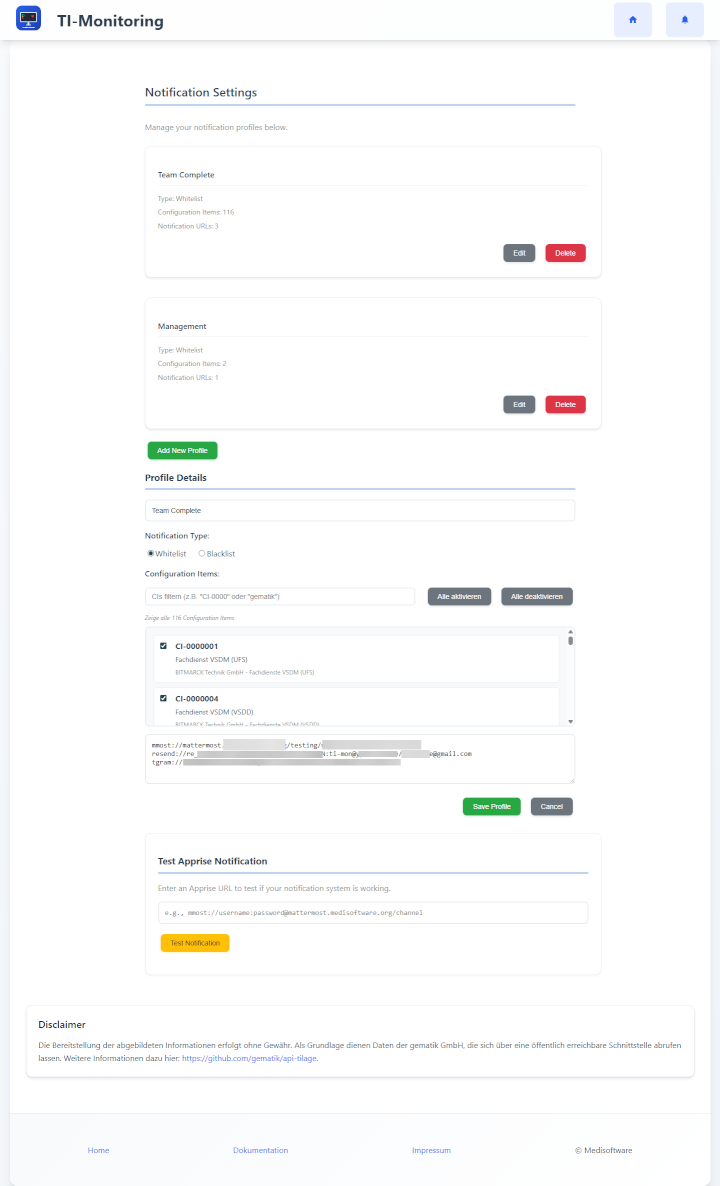
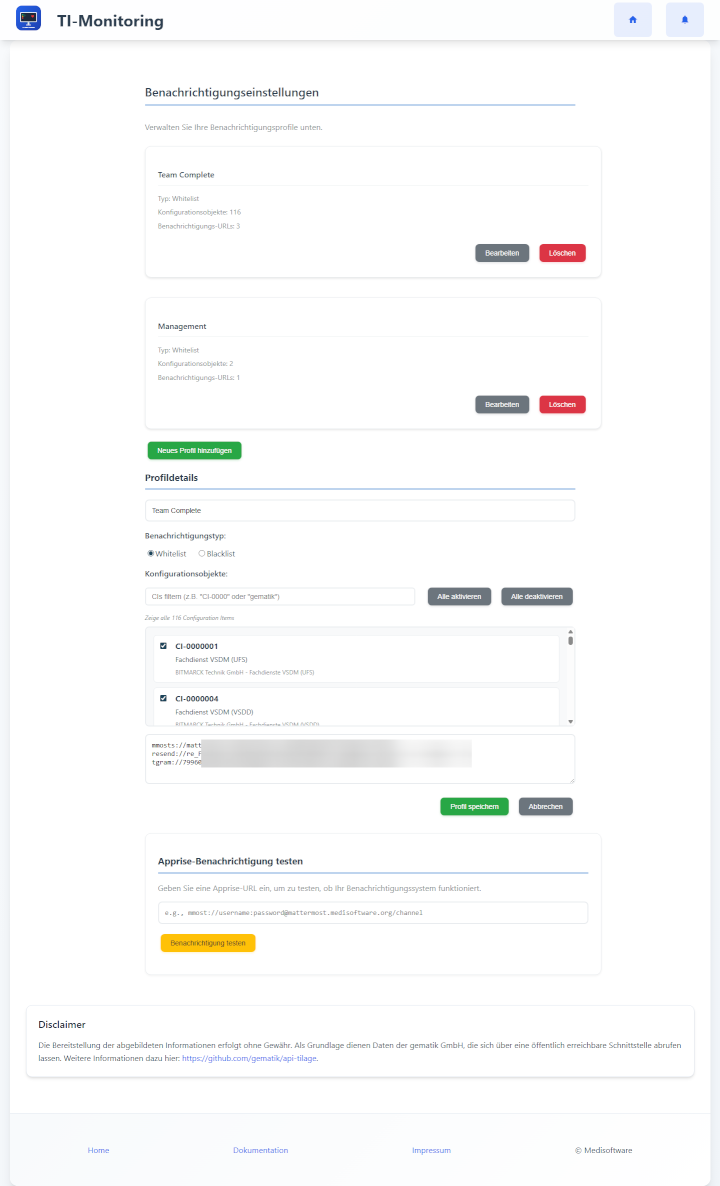
feat: Notifications-Seite vollständig auf Deutsch übersetzt
- Haupttitel: 'Notification Settings' → 'Benachrichtigungseinstellungen'
- Login-Bereich: Alle Texte auf Deutsch übersetzt
- Profil-Formular: Labels, Buttons und Platzhalter auf Deutsch
- Profile-Cards: Anzeigetexte und Button-Labels auf Deutsch
- Test-Bereich: Alle Meldungen und Hilfetexte auf Deutsch
- Fehlermeldungen: Alle Benutzerbenachrichtigungen auf Deutsch
- Technische Begriffe (Whitelist/Blacklist) beibehalten
- Verbesserte Benutzerfreundlichkeit für deutschsprachige Benutzer

diff --git a/pages/notification_settings.py b/pages/notification_settings.py
@@ -122,7 +122,7 @@ auth_status = {'authenticated': False}
 
 def serve_layout():
     layout = html.Div([
-        html.H2('Notification Settings', style={
+        html.H2('Benachrichtigungseinstellungen', style={
             'color': '#2c3e50',
             'fontWeight': '600',
             'marginBottom': '30px',
@@ -134,12 +134,12 @@ def serve_layout():
         
         # Login form (shown when not authenticated)
         html.Div(id='login-container', children=[
-            html.H3('Login Required', style={'color': '#2c3e50', 'marginBottom': '20px'}),
-            html.P('Please enter the password to access notification settings.', style={'color': '#7f8c8d', 'marginBottom': '20px'}),
+            html.H3('Anmeldung erforderlich', style={'color': '#2c3e50', 'marginBottom': '20px'}),
+            html.P('Bitte geben Sie das Passwort ein, um auf die Benachrichtigungseinstellungen zuzugreifen.', style={'color': '#7f8c8d', 'marginBottom': '20px'}),
             dcc.Input(
                 id='password-input',
                 type='password',
-                placeholder='Enter password',
+                placeholder='Passwort eingeben',
                 style={
                     'width': '100%', 
                     'marginBottom': '15px',
@@ -151,7 +151,7 @@ def serve_layout():
                     'boxSizing': 'border-box'
                 }
             ),
-            html.Button('Login', id='login-button', n_clicks=0, style=get_button_style('primary')),
+            html.Button('Anmelden', id='login-button', n_clicks=0, style=get_button_style('primary')),
             html.Div(id='login-error', style={'color': '#e74c3c', 'marginTop': '15px', 'fontWeight': '500'})
         ], style={
             'width': '100%',
@@ -166,7 +166,7 @@ def serve_layout():
         
         # Settings interface (hidden when not authenticated)
         html.Div(id='settings-container', children=[
-            html.P('Manage your notification profiles below.', style={
+            html.P('Verwalten Sie Ihre Benachrichtigungsprofile unten.', style={
                 'color': '#7f8c8d',
                 'fontSize': '16px',
                 'marginBottom': '25px'
@@ -176,11 +176,11 @@ def serve_layout():
             html.Div(id='profiles-container'),
             
             # Add new profile button
-            html.Button('Add New Profile', id='add-profile-button', n_clicks=0, style=get_button_style('success')),
+            html.Button('Neues Profil hinzufügen', id='add-profile-button', n_clicks=0, style=get_button_style('success')),
             
             # Profile form (hidden by default)
             html.Div(id='profile-form-container', children=[
-                html.H3('Profile Details', style={
+                html.H3('Profildetails', style={
                     'color': '#2c3e50',
                     'marginBottom': '20px',
                     'borderBottom': '2px solid #3498db',
@@ -192,7 +192,7 @@ def serve_layout():
                 dcc.Store(id='ci-filter-text', data=''),
                 dcc.Input(
                     id='profile-name-input',
-                    placeholder='Profile Name',
+                    placeholder='Profilname',
                     style={
                         'width': '100%', 
                         'marginBottom': '15px',
@@ -205,7 +205,7 @@ def serve_layout():
                     }
                 ),
                 html.Div([
-                    html.Label('Notification Type:', style={
+                    html.Label('Benachrichtigungstyp:', style={
                         'display': 'block',
                         'marginBottom': '10px',
                         'fontWeight': '500',
@@ -231,7 +231,7 @@ def serve_layout():
                     'width': '100%'
                 }),
                 html.Div([
-                    html.Label('Configuration Items:', style={
+                    html.Label('Konfigurationsobjekte:', style={
                         'display': 'block',
                         'marginBottom': '10px',
                         'fontWeight': '500',
@@ -287,7 +287,7 @@ def serve_layout():
                 }),
                 dcc.Textarea(
                     id='apprise-urls-textarea',
-                    placeholder='Apprise URLs (one per line)',
+                    placeholder='Apprise URLs (eine pro Zeile)',
                     style={
                         'width': '100%', 
                         'height': '100px', 
@@ -307,8 +307,8 @@ def serve_layout():
                     'width': '100%'
                 }),
                 html.Div([
-                    html.Button('Save Profile', id='save-profile-button', n_clicks=0, style=get_button_style('success')),
-                    html.Button('Cancel', id='cancel-profile-button', n_clicks=0, style=get_button_style('secondary'))
+                    html.Button('Profil speichern', id='save-profile-button', n_clicks=0, style=get_button_style('success')),
+                    html.Button('Abbrechen', id='cancel-profile-button', n_clicks=0, style=get_button_style('secondary'))
                 ], style={
                     'display': 'flex', 
                     'gap': '10px',
@@ -329,17 +329,17 @@ def serve_layout():
             # Delete confirmation modal
             dcc.ConfirmDialog(
                 id='delete-confirm',
-                message='Are you sure you want to delete this profile?'
+                message='Sind Sie sicher, dass Sie dieses Profil löschen möchten?'
             ),
             # Test Apprise notification button
             html.Div([
-                html.H3('Test Apprise Notification', style={
+                html.H3('Apprise-Benachrichtigung testen', style={
                     'color': '#2c3e50',
                     'marginBottom': '15px',
                     'borderBottom': '2px solid #3498db',
                     'paddingBottom': '10px'
                 }),
-                html.P('Enter an Apprise URL to test if your notification system is working.', style={
+                html.P('Geben Sie eine Apprise-URL ein, um zu testen, ob Ihr Benachrichtigungssystem funktioniert.', style={
                     'color': '#7f8c8d',
                     'marginBottom': '15px'
                 }),
@@ -359,7 +359,7 @@ def serve_layout():
                         'boxSizing': 'border-box'
                     }
                 ),
-                html.Button('Test Notification', id='test-notification-button', n_clicks=0, style=get_button_style('warning')),
+                html.Button('Benachrichtigung testen', id='test-notification-button', n_clicks=0, style=get_button_style('warning')),
                 html.Div(id='test-result', style={
                     'width': '100%',
                     'marginTop': '15px'
@@ -405,9 +405,9 @@ def handle_login(n_clicks, password, auth_data):
                 auth_data['authenticated'] = True
                 return [{'display': 'none'}, {'display': 'block'}, '', auth_data]
             else:
-                return [no_update, no_update, 'Invalid password. Please try again.', auth_data]
+                return [no_update, no_update, 'Ungültiges Passwort. Bitte versuchen Sie es erneut.', auth_data]
         else:
-            return [no_update, no_update, 'Please enter a password.', auth_data]
+            return [no_update, no_update, 'Bitte geben Sie ein Passwort ein.', auth_data]
     return [no_update, no_update, '', auth_data]
 
 
@@ -790,7 +790,7 @@ def display_profiles(auth_data, save_clicks, delete_clicks):
     try:
         config = get_notification_config(config_notifications_config_file)
         if not config:
-            return html.P('No notification profiles found. Add a new profile to get started.')
+            return html.P('Keine Benachrichtigungsprofile gefunden. Fügen Sie ein neues Profil hinzu, um zu beginnen.')
         
         profile_cards = []
         for i, profile in enumerate(config):
@@ -799,7 +799,7 @@ def display_profiles(auth_data, save_clicks, delete_clicks):
             url_count = len(profile.get('apprise_urls', []))
             
             card = html.Div([
-                html.H4(profile.get('name', 'Unnamed Profile'), style={
+                html.H4(profile.get('name', 'Unbenanntes Profil'), style={
                     'color': '#2c3e50',
                     'marginBottom': '15px',
                     'fontWeight': '600',
@@ -807,25 +807,25 @@ def display_profiles(auth_data, save_clicks, delete_clicks):
                     'paddingBottom': '10px'
                 }),
                 html.Div([
-                    html.P(f"Type: {profile.get('type', 'whitelist').title()}", style={
+                    html.P(f"Typ: {profile.get('type', 'whitelist').title()}", style={
                         'color': '#7f8c8d',
                         'margin': '5px 0',
                         'fontSize': '14px'
                     }),
-                    html.P(f"Configuration Items: {ci_count}", style={
+                    html.P(f"Konfigurationsobjekte: {ci_count}", style={
                         'color': '#7f8c8d',
                         'margin': '5px 0',
                         'fontSize': '14px'
                     }),
-                    html.P(f"Notification URLs: {url_count}", style={
+                    html.P(f"Benachrichtigungs-URLs: {url_count}", style={
                         'color': '#7f8c8d',
                         'margin': '5px 0',
                         'fontSize': '14px'
                     })
                 ], style={'marginBottom': '20px'}),
                 html.Div([
-                    html.Button('Edit', id={'type': 'edit-profile', 'index': i}, n_clicks=0, style=get_button_style('secondary')),
-                    html.Button('Delete', id={'type': 'delete-profile', 'index': i}, n_clicks=0, 
+                    html.Button('Bearbeiten', id={'type': 'edit-profile', 'index': i}, n_clicks=0, style=get_button_style('secondary')),
+                    html.Button('Löschen', id={'type': 'delete-profile', 'index': i}, n_clicks=0, 
                                style=get_button_style('danger'))
                 ], style={
                     'display': 'flex', 
@@ -854,7 +854,7 @@ def display_profiles(auth_data, save_clicks, delete_clicks):
             'gap': '20px'
         })
     except Exception as e:
-        return html.P(f'Error loading profiles: {str(e)}')
+        return html.P(f'Fehler beim Laden der Profile: {str(e)}')
 
 # Callback to show profile form
 @callback(
@@ -1012,7 +1012,7 @@ def show_delete_confirm(delete_clicks):
         config = get_notification_config(config_notifications_config_file)
         if 0 <= index < len(config):
             profile_name = config[index].get('name', 'Unnamed Profile')
-            message = f'Are you sure you want to delete the profile "{profile_name}"?'
+            message = f'Sind Sie sicher, dass Sie das Profil "{profile_name}" löschen möchten?'
             return [True, message]
     except Exception:
         pass
@@ -1071,10 +1071,10 @@ def delete_profile(submit_n_clicks, triggered):
 )
 def test_apprise_notification(n_clicks, apprise_url, auth_data):
     if not auth_data.get('authenticated', False):
-        return html.Div('Authentication required.', style={'color': 'red'})
+        return html.Div('Authentifizierung erforderlich.', style={'color': 'red'})
     
     if not apprise_url or not apprise_url.strip():
-        return html.Div('Please enter an Apprise URL to test.', style={'color': 'orange'})
+        return html.Div('Bitte geben Sie eine Apprise-URL zum Testen ein.', style={'color': 'orange'})
     
     try:
         # Create Apprise object and add the URL
@@ -1084,60 +1084,60 @@ def test_apprise_notification(n_clicks, apprise_url, auth_data):
         if not apobj.add(apprise_url.strip()):
             return html.Div([
                 html.I(className='material-icons', children='error', style={'color': 'red', 'margin-right': '8px'}),
-                html.Span('Invalid Apprise URL format. Please check the URL syntax.', style={'color': 'red'}),
+                html.Span('Ungültiges Apprise-URL-Format. Bitte überprüfen Sie die URL-Syntax.', style={'color': 'red'}),
                 html.Br(),
                 html.Span(f'URL: {apprise_url.strip()}', style={'color': 'gray', 'font-size': '0.9em'}),
                 html.Br(),
                 html.Br(),
-                html.Span('Common Mattermost format: mmost://username:password@hostname/channel', style={'color': 'blue', 'font-size': '0.9em'}),
+                html.Span('Häufiges Mattermost-Format: mmost://username:password@hostname/channel', style={'color': 'blue', 'font-size': '0.9em'}),
                 html.Br(),
-                html.Span('Example: mmost://user:pass@mattermost.medisoftware.org/channel', style={'color': 'blue', 'font-size': '0.9em'})
+                html.Span('Beispiel: mmost://user:pass@mattermost.medisoftware.org/channel', style={'color': 'blue', 'font-size': '0.9em'})
             ])
         
         # Send test notification
         result = apobj.notify(
-            title='TI-Monitoring Test Notification',
-            body='This is a test notification from TI-Monitoring. If you receive this, your Apprise configuration is working correctly!',
+            title='TI-Monitoring Test-Benachrichtigung',
+            body='Dies ist eine Test-Benachrichtigung von TI-Monitoring. Wenn Sie diese erhalten, funktioniert Ihre Apprise-Konfiguration korrekt!',
             body_format=apprise.NotifyFormat.TEXT
         )
         
         if result:
             return html.Div([
                 html.I(className='material-icons', children='check_circle', style={'color': 'green', 'margin-right': '8px'}),
-                html.Span('Test notification sent successfully! Check your notification destination.', style={'color': 'green'}),
+                html.Span('Test-Benachrichtigung erfolgreich gesendet! Überprüfen Sie Ihr Benachrichtigungsziel.', style={'color': 'green'}),
                 html.Br(),
                 html.Span(f'URL: {apprise_url.strip()}', style={'color': 'gray', 'font-size': '0.9em'}),
                 html.Br(),
-                html.Span('Note: If you don\'t receive the message, check your Mattermost channel and bot permissions.', style={'color': 'blue', 'font-size': '0.9em'})
+                html.Span('Hinweis: Wenn Sie die Nachricht nicht erhalten, überprüfen Sie Ihren Mattermost-Kanal und die Bot-Berechtigungen.', style={'color': 'blue', 'font-size': '0.9em'})
             ])
         else:
             return html.Div([
                 html.I(className='material-icons', children='error', style={'color': 'red', 'margin-right': '8px'}),
-                html.Span('Failed to send test notification. Please check your Apprise URL and configuration.', style={'color': 'red'}),
+                html.Span('Test-Benachrichtigung konnte nicht gesendet werden. Bitte überprüfen Sie Ihre Apprise-URL und Konfiguration.', style={'color': 'red'}),
                 html.Br(),
                 html.Span(f'URL: {apprise_url.strip()}', style={'color': 'gray', 'font-size': '0.9em'}),
                 html.Br(),
                 html.Br(),
-                html.Span('Common issues:', style={'color': 'orange', 'font-weight': 'bold'}),
+                html.Span('Häufige Probleme:', style={'color': 'orange', 'font-weight': 'bold'}),
                 html.Br(),
-                html.Span('• Check if the Mattermost server is accessible', style={'color': 'orange'}),
+                html.Span('• Überprüfen Sie, ob der Mattermost-Server erreichbar ist', style={'color': 'orange'}),
                 html.Br(),
-                html.Span('• Verify username/password credentials', style={'color': 'orange'}),
+                html.Span('• Überprüfen Sie Benutzername/Passwort-Anmeldedaten', style={'color': 'orange'}),
                 html.Br(),
-                html.Span('• Ensure the bot has permission to post in the channel', style={'color': 'orange'}),
+                html.Span('• Stellen Sie sicher, dass der Bot die Berechtigung hat, im Kanal zu posten', style={'color': 'orange'}),
                 html.Br(),
-                html.Span('• Check Mattermost server logs for errors', style={'color': 'orange'})
+                html.Span('• Überprüfen Sie die Mattermost-Server-Logs auf Fehler', style={'color': 'orange'})
             ])
             
     except Exception as e:
         return html.Div([
             html.I(className='material-icons', children='error', style={'color': 'red', 'margin-right': '8px'}),
-            html.Span(f'Error testing notification: {str(e)}', style={'color': 'red'}),
+            html.Span(f'Fehler beim Testen der Benachrichtigung: {str(e)}', style={'color': 'red'}),
             html.Br(),
             html.Span(f'URL: {apprise_url.strip()}', style={'color': 'gray', 'font-size': '0.9em'}),
             html.Br(),
             html.Br(),
-            html.Span('Try this format instead:', style={'color': 'blue', 'font-weight': 'bold'}),
+            html.Span('Versuchen Sie stattdessen dieses Format:', style={'color': 'blue', 'font-weight': 'bold'}),
             html.Br(),
             html.Span('mmost://username:password@mattermost.medisoftware.org/channel', style={'color': 'blue', 'font-family': 'monospace'})
         ])
